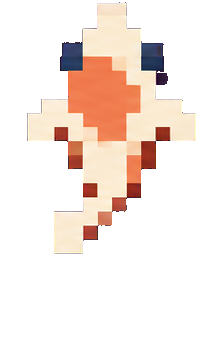
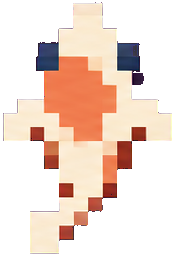
Village: fix the koi, size up the small decor
Koi were rendering from a loose crop with dead margin and a full
random rotation, so they read as thin diagonal smears. Re-cropped
tight to the body, rendered larger (~13 tall), and turned each only a
little off-vertical (some flipped to face the other way).

Nudged up the small scenery per "make everything small a little
bigger": the freestanding decor props +18%, benches / flowerbeds
+20%, fences / lamps / arbor / planters / picnic mat / postcard rack,
the mid-ground bushes, the nature-detail and seasonal-litter decals,
the habit-flower sizes, and the pond a little more.

diff --git a/components/village/scene/VillageScene.tsx b/components/village/scene/VillageScene.tsx
@@ -1720,7 +1720,7 @@ export default function VillageScene({
             since round 12, same reasoning as FOREGROUND's own swap below. */}
         <g opacity={0.8}>
           {MIDGROUND_BUSHES.map(b => {
-            const w = 12 * b.scale, h = 7 * b.scale
+            const w = 14.5 * b.scale, h = 8.5 * b.scale
             return (
               <image key={b.id} href="/village-assets/bush-mound.png" x={b.x - w / 2} y={b.y - h} width={w} height={h}
                 style={{ imageRendering: 'pixelated' }} />
@@ -1765,7 +1765,7 @@ export default function VillageScene({
               'wildflower-meadow.png': 680 / 204, 'flower-patch.png': 1.55,
               'firewood-bundle.png': 174 / 120,
             }
-            const w = d.w, h = w / (ar[d.src] ?? 1.5)
+            const w = d.w * 1.22, h = w / (ar[d.src] ?? 1.5)
             return (
               <g key={i} transform={d.flip ? `translate(${d.x} ${d.y}) scale(-1 1)` : `translate(${d.x} ${d.y})`}>
                 <ellipse cx={0} cy={0.5} rx={w * 0.44} ry={h * 0.14} fill="var(--text)" opacity={0.12} />
@@ -1796,7 +1796,7 @@ export default function VillageScene({
                   { src: 'snow-mound.png', ar: 221 / 104, x: 636, y: GROUND_Y + 22, w: 19, flip: true },
                 ]
             ).map((d, i) => {
-              const w = d.w, h = w / d.ar
+              const w = d.w * 1.2, h = w / d.ar
               return (
                 <g key={i} transform={d.flip ? `translate(${d.x} ${d.y}) scale(-1 1)` : `translate(${d.x} ${d.y})`}>
                   <ellipse cx={0} cy={0.4} rx={w * 0.44} ry={h * 0.16} fill="var(--text)" opacity={0.1} />
@@ -1814,7 +1814,7 @@ export default function VillageScene({
             scenery, not draggable — same idiom as the nature details. */}
         <g pointerEvents="none">
           {/* Flower arbor + bench */}
-          {(() => { const w = 23, h = w / (301 / 235), x = 348, y = GROUND_Y + 74; return (
+          {(() => { const w = 28, h = w / (301 / 235), x = 348, y = GROUND_Y + 74; return (
             <g transform={`translate(${x} ${y})`}>
               <ellipse cx={0} cy={0.5} rx={w * 0.42} ry={2} fill="var(--text)" opacity={0.13} />
               <image href="/village-assets/arbor-bench.png" x={-w / 2} y={-h} width={w} height={h} style={{ imageRendering: 'pixelated' }} />
@@ -1822,7 +1822,7 @@ export default function VillageScene({
           ) })()}
           {/* Path lamps */}
           {[{ x: 176, y: GROUND_Y + 20 }, { x: 528, y: GROUND_Y + 24 }].map((p, i) => {
-            const w = 8, h = w / (136 / 242)
+            const w = 10, h = w / (136 / 242)
             return (
               <g key={i} transform={`translate(${p.x} ${p.y})`}>
                 {warm && <circle cx={0} cy={-h + 3} r={7} fill="var(--amber)" opacity={0.4} filter="url(#vglow)" className="village-glow" />}
@@ -1834,7 +1834,7 @@ export default function VillageScene({
           })}
           {/* Tulip planters */}
           {[{ x: 40, y: GROUND_Y + 52 }, { x: 366, y: GROUND_Y + 28 }].map((p, i) => {
-            const w = 13, h = w / (251 / 115)
+            const w = 16, h = w / (251 / 115)
             return (
               <g key={i} transform={`translate(${p.x} ${p.y})`}>
                 <ellipse cx={0} cy={0.5} rx={w * 0.42} ry={1.4} fill="var(--text)" opacity={0.12} />
@@ -1901,12 +1901,12 @@ export default function VillageScene({
       })()}
       {PROPS.benches.map((_, i) => { const id = `bench-${i}`; const p = decorPos(id); return (
         <Draggable key={id} x={p.x} y={p.y} id={id} arranging={arranging} draggingId={draggingId} onPointerDown={startDrag(id)} r={10}>
-          <BenchShape x={0} y={0} scale={1.15} />
+          <BenchShape x={0} y={0} scale={1.38} />
         </Draggable>
       ) })}
       {PROPS.flowerBeds.map((f, i) => { const id = `flowerBed-${i}`; const p = decorPos(id); return (
         <Draggable key={id} x={p.x} y={p.y} id={id} arranging={arranging} draggingId={draggingId} onPointerDown={startDrag(id)} r={14}>
-          <FlowerBedShape x={0} y={0} scale={1.15} hue={f.hue} onClick={!arranging ? () => life.walkTo(p.x, p.y + 6) : undefined} />
+          <FlowerBedShape x={0} y={0} scale={1.38} hue={f.hue} onClick={!arranging ? () => life.walkTo(p.x, p.y + 6) : undefined} />
         </Draggable>
       ) })}
       {/* The fence is back (round 39, 2026-08-27, "sync all new elements
@@ -1915,12 +1915,12 @@ export default function VillageScene({
           removed round 34/35). */}
       {PROPS.fences.map((f, i) => { const id = `fence-${i}`; const p = decorPos(id); return (
         <Draggable key={id} x={p.x} y={p.y} id={id} arranging={arranging} draggingId={draggingId} onPointerDown={startDrag(id)} r={16}>
-          <FenceShape x={0} y={0} length={f.length} scale={1.1} />
+          <FenceShape x={0} y={0} length={f.length} scale={1.25} />
         </Draggable>
       ) })}
       {PROPS.lamps.map((_, i) => { const id = `lamp-${i}`; const p = decorPos(id); return (
         <Draggable key={id} x={p.x} y={p.y} id={id} arranging={arranging} draggingId={draggingId} onPointerDown={startDrag(id)} r={10}>
-          <LampShape x={0} y={0} dark={warm} scale={1.1} />
+          <LampShape x={0} y={0} dark={warm} scale={1.3} />
         </Draggable>
       ) })}
       {(() => { const p = decorPos('clockTower'); return (
@@ -1949,7 +1949,7 @@ export default function VillageScene({
         </Draggable>
       ) })()}
       {/* Postcard rack (round 66) — flip through your trip postcards. */}
-      {(() => { const p = decorPos('postcardRack'); const s = itemScale('postcardRack'); const w = 24 * s, h = w * (145 / 203); return (
+      {(() => { const p = decorPos('postcardRack'); const s = itemScale('postcardRack'); const w = 29 * s, h = w * (145 / 203); return (
         <Draggable x={p.x} y={p.y} id="postcardRack" arranging={arranging} draggingId={draggingId} onPointerDown={startDrag('postcardRack')} r={14}>
           <g onClick={!arranging ? () => setPostcardsOpen(o => !o) : undefined}
             className={!arranging ? 'village-entity' : undefined} style={{ cursor: !arranging ? 'pointer' : undefined }}>
@@ -1961,7 +1961,7 @@ export default function VillageScene({
           </g>
         </Draggable>
       ) })()}
-      {(() => { const p = decorPos('picnicMat'); const w = 22, h = w * (280 / 460); return (
+      {(() => { const p = decorPos('picnicMat'); const w = 27, h = w * (280 / 460); return (
         <Draggable x={p.x} y={p.y} id="picnicMat" arranging={arranging} draggingId={draggingId} onPointerDown={startDrag('picnicMat')} r={13}>
           <g>
             <title>A picnic spot</title>
@@ -2037,7 +2037,8 @@ export default function VillageScene({
         const p0 = decorPos(p.id)
         // Resizable in arrange (round 48, 2026-08-28) — itemScale(id)
         // multiplies both dimensions uniformly so nothing stretches.
-        const s = itemScale(p.id)
+        // Nudged up 2026-09-09 ("make everything small a little bigger").
+        const s = itemScale(p.id) * 1.18
         const pw = p.w * s, ph = p.h * s
         return (
           <g key={p.id} transform={`translate(${p0.x} ${p0.y})`} opacity={1}

diff --git a/components/village/scene/shapes.tsx b/components/village/scene/shapes.tsx
@@ -168,7 +168,7 @@ export function PlantShape({ plant, x, y, scale = 1, changed = false, foliage = 
   // now; hashPos still picks which of the two dormant/wilt variants a given
   // plant gets, same determinism rule as everywhere else in this file.
   const species = 'flower'
-  const size = [11, 16, 21, 26, 30][i] // ~20% smaller round 59 ("make flowers a bit smaller")
+  const size = [13, 19, 25, 31, 36][i] // nudged up 2026-09-09 ("make everything small a little bigger")
   const dormantSprite = `flower-dormant-${hashPos(plant.id + 'wilt') < 0.5 ? 1 : 2}`
 
   const handleClick = onClick ? (e: React.MouseEvent) => { e.stopPropagation(); onClick() } : undefined
@@ -322,7 +322,7 @@ export function PondShape({ x, y, scale = 1, onClick }: { x: number; y: number; 
   // stopPropagation/oversized-hit-circle idiom as VillagerShape's own
   // onClick, gated `!arranging` by the caller, not here.
   const handleClick = onClick ? (e: React.MouseEvent) => { e.stopPropagation(); onClick() } : undefined
-  const w = 84, h = w / POND.aspect
+  const w = 96, h = w / POND.aspect
   return (
     <g transform={`translate(${x} ${y}) scale(${scale})`} onClick={handleClick}
       className={onClick ? 'village-entity' : undefined} style={{ cursor: onClick ? 'pointer' : undefined }}>
@@ -344,22 +344,24 @@ export function PondLife({ cx, cy, timeOfDay = 'day', frozen = false }: {
 }) {
   const night = timeOfDay === 'night'
   const brisk = timeOfDay === 'dawn' || timeOfDay === 'dusk'
-  const koiN = night ? 5 : brisk ? 9 : 7
+  const koiN = night ? 4 : brisk ? 8 : 6
   const duckN = night ? 0 : brisk ? 2 : 1
-  const koiFrames = [0, 1, 2].map(i => ({ src: `/village-assets/koi-${i}.png`, aspect: 224 / 340 }))
+  const koiFrames = [0, 1, 2].map(i => ({ src: `/village-assets/koi-${i}.png`, aspect: 176 / 258 }))
   return (
     <g pointerEvents="none">
       {Array.from({ length: koiN }).map((_, i) => {
-        const dx = (hashPos('koi' + i + 'x') - 0.5) * 52
-        const dy = (hashPos('koi' + i + 'y') - 0.5) * 15
-        const angle = Math.round(hashPos('koi' + i + 'r') * 360)
+        const dx = (hashPos('koi' + i + 'x') - 0.5) * 50
+        const dy = (hashPos('koi' + i + 'y') - 0.5) * 16
+        // Gentle spread of headings, half of them turned to face the other
+        // way — a full random rotation just reads as a diagonal smear.
+        const angle = Math.round((hashPos('koi' + i + 'r') - 0.5) * 80 + (hashPos('koi' + i + 'f') > 0.5 ? 180 : 0))
         const drift = `village-koi-${i % 2}${night ? ' village-koi-slow' : ''}`
         return (
           // outer: place + face; middle: the slow drift wiggle; inner: the
           // swim-cycle sprite.
           <g key={i} transform={`translate(${cx + dx} ${cy + dy}) rotate(${angle})`}>
             <g className={night ? undefined : drift}>
-              <SpriteCycle frames={koiFrames} x={0} y={6} height={13} periodSec={night ? 2.4 : 1.3} opacity={0.9} />
+              <SpriteCycle frames={koiFrames} x={0} y={6} height={13} periodSec={night ? 2.4 : 1.3} opacity={0.92} />
             </g>
           </g>
         )
